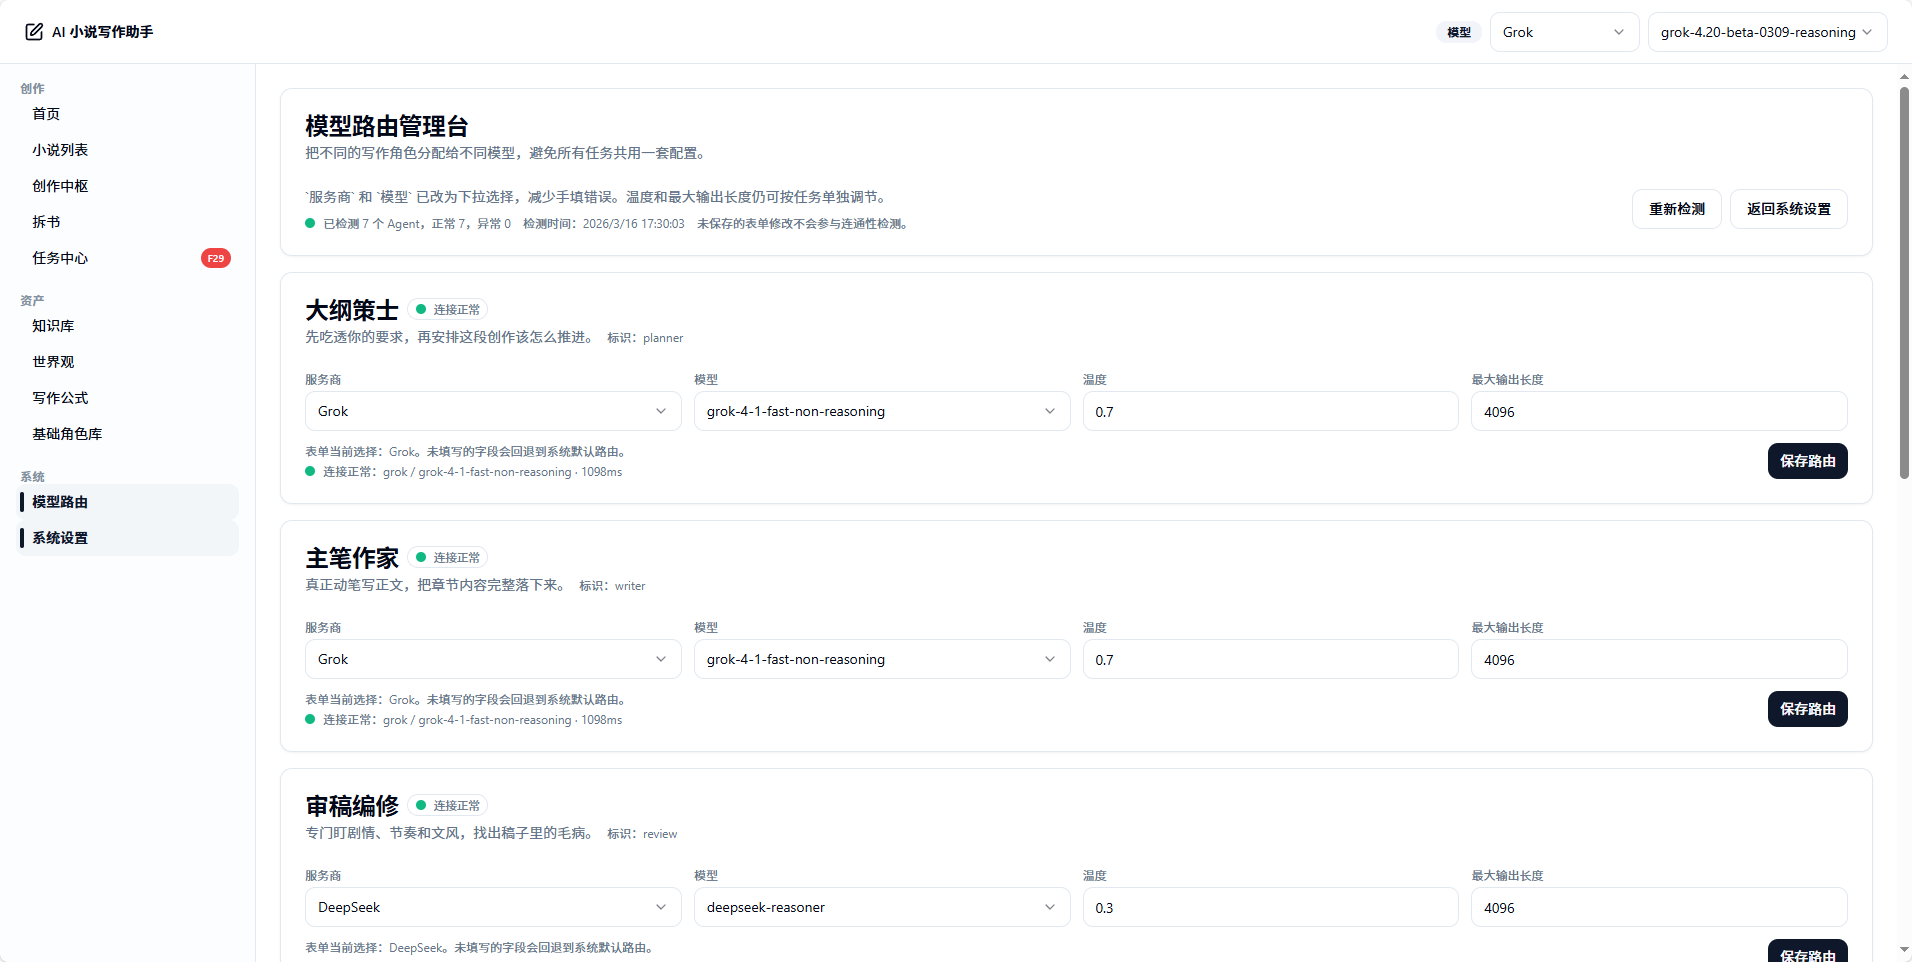
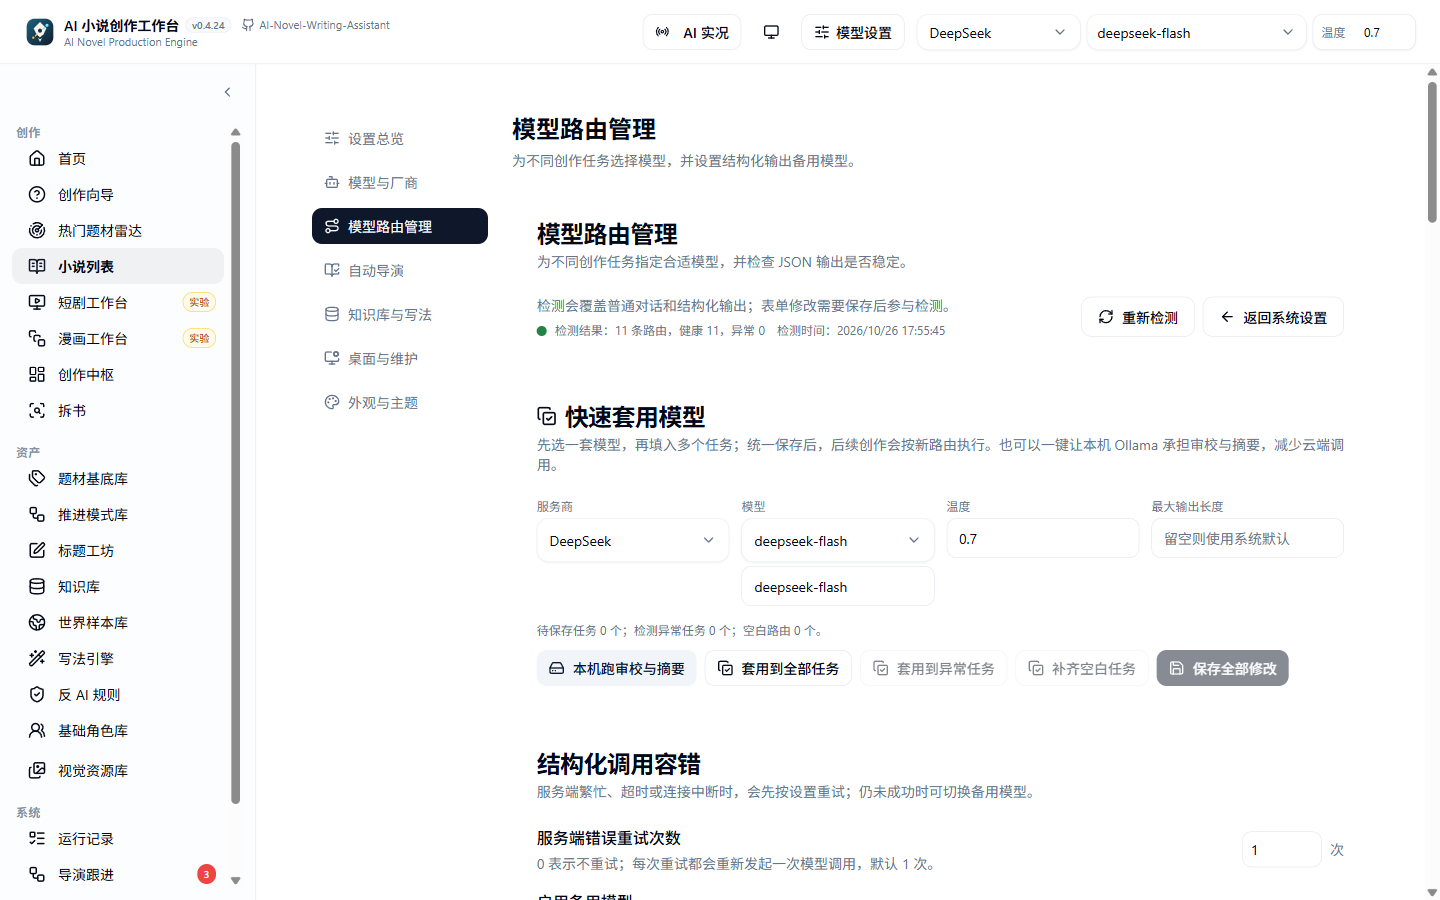
文档：刷新公开文档与 README 截图（真实数据批次）

diff --git a/docs/public/modules/model-routing.md b/docs/public/modules/model-routing.md
@@ -2,7 +2,7 @@
 
 模型路由用于把不同类型的 AI 任务分配给合适的模型。长篇小说生产链里，规划、正文、审核、拆书和知识分析对模型能力的要求并不相同。
 
-![模型配置界面截图](../../../images/模型配置.png)
+![模型路由管理界面截图](../../../images/模型配置.png)
 
 ## 什么时候需要配置
 

diff --git a/docs/public/modules/director-follow-up.md b/docs/public/modules/director-follow-up.md
@@ -2,7 +2,7 @@
 
 导演跟进用于查看自动导演的执行进度、暂停原因、恢复入口和下一步建议。它帮助你理解一本书的主链停在什么位置。
 
-![质量修复阶段与 AI 驾驶舱进度](../../../images/write/质量修复.png)
+![导演跟进中心界面截图](../../../images/导演跟进中心.png)
 
 ## 什么时候打开
 

diff --git a/docs/public/modules/system-settings.md b/docs/public/modules/system-settings.md
@@ -2,7 +2,7 @@
 
 系统设置用于配置模型供应商、API Key、知识库连接、数据库相关偏好和基础运行选项。第一次使用时，系统设置是必须完成的入口。
 
-![模型与任务路由界面截图](../../../images/模型配置.png)
+![系统设置总览界面截图](../../../images/系统设置.png)
 
 ## 优先配置什么
 
